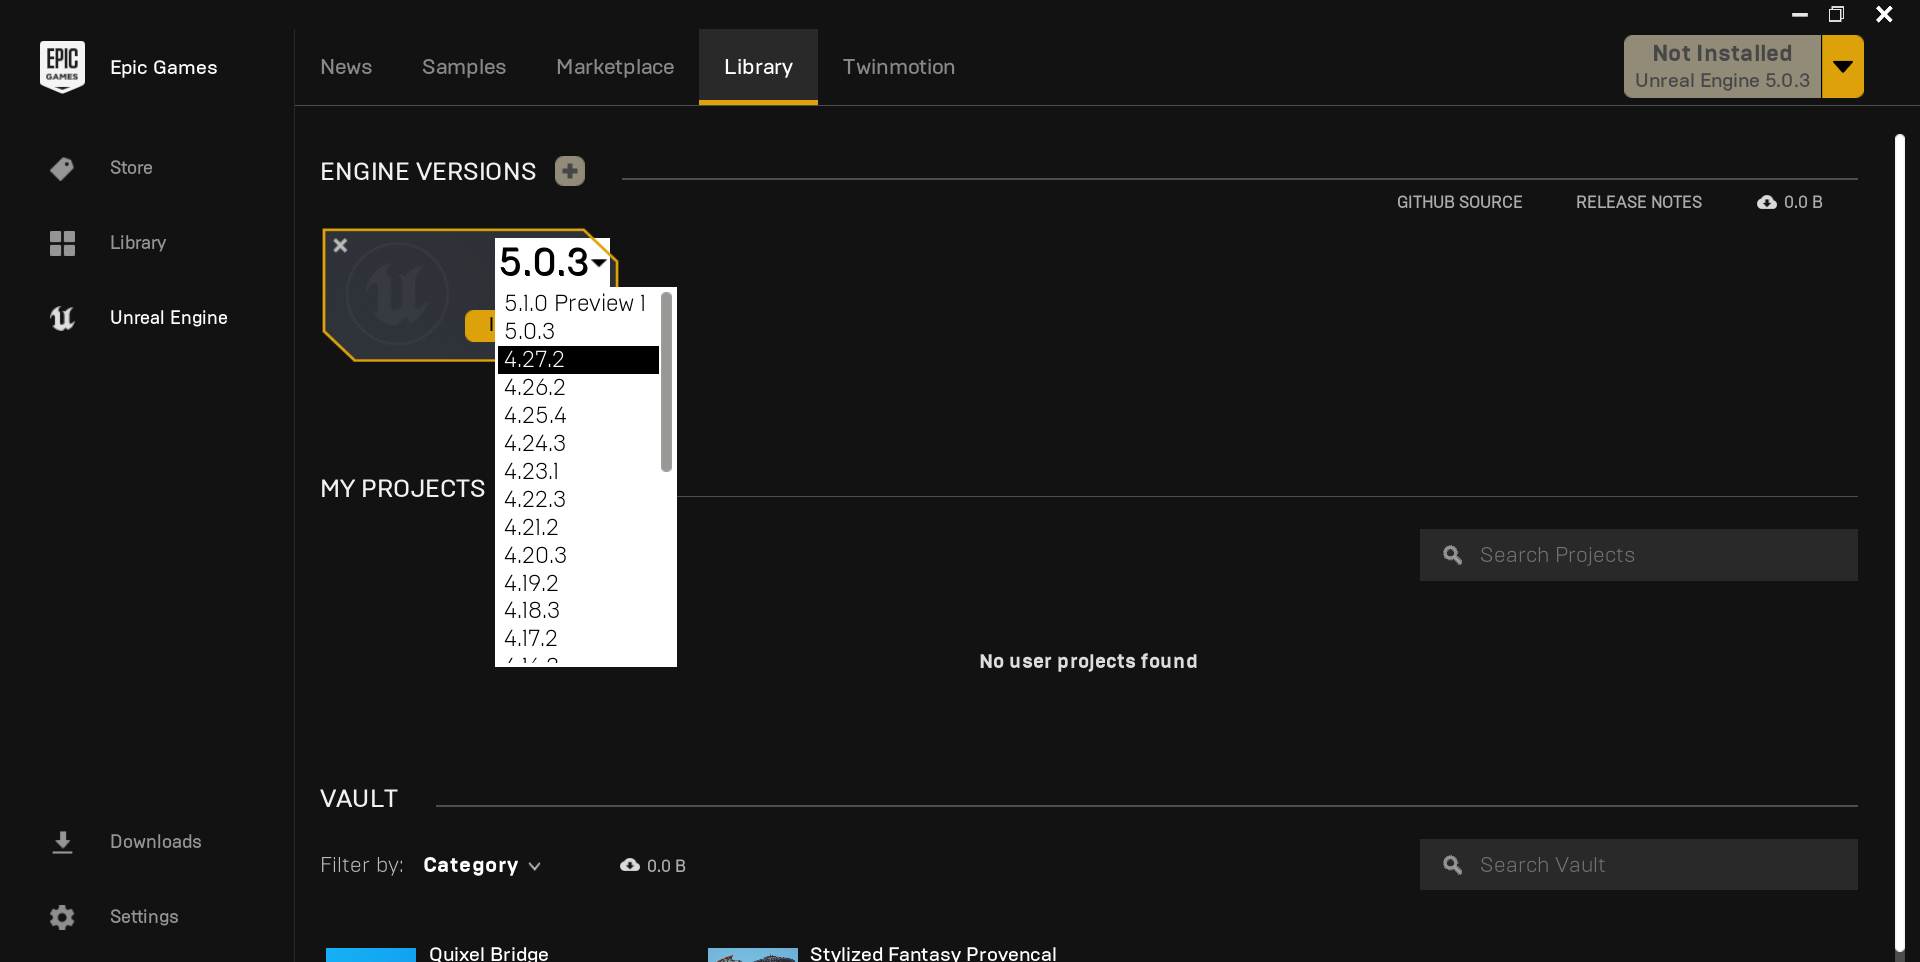
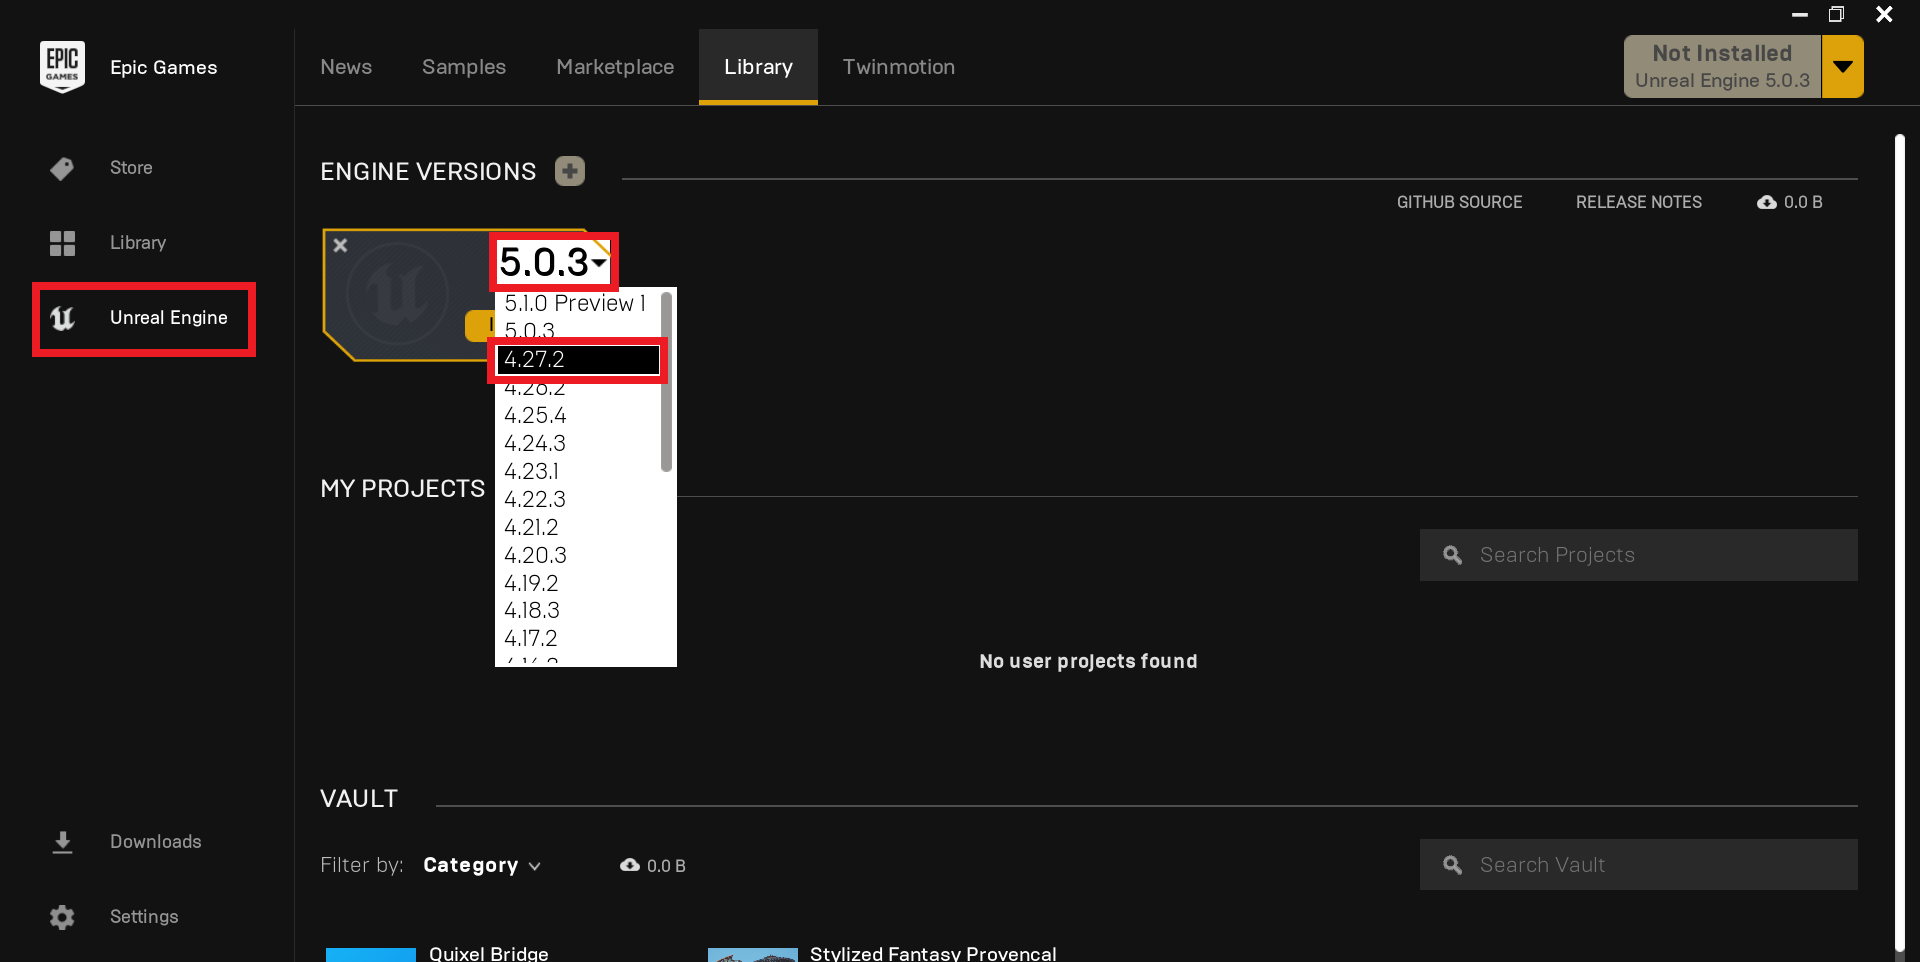
fix: 오타, 그림 수정

Changed region(s): [[0.0, 0.2807, 0.1562, 0.3742], [0.25, 0.343, 0.375, 0.4054], [0.25, 0.2183, 0.3438, 0.3119]]

diff --git a/README.md b/README.md
@@ -2,22 +2,22 @@
 1. 다음 링크로 이동해서 에픽게임즈 런처를 다운 받아 설치한다.
 - https://store.epicgames.com/en-US/
  ![](./images/1.png)
-1. 다운로드 중에 에픽게임즈 회원가입을 한다.
-2. 설치가 되었으면 런처를 실행해서 아까 가입한 정보로 로그인한다.
-3. 왼쪽 목차에 보면 언리얼엔진이라고 적혀져 있다. 클릭하자.
-4. 4.27.2버전을 선택하고 설치를 누른다.
+2. 다운로드 중에 에픽게임즈 회원가입을 한다.
+3. 설치가 되었으면 런처를 실행해서 아까 가입한 정보로 로그인한다.
+4. 왼쪽 목차에 보면 언리얼엔진을 클릭하고 4.27.2버전을 선택, 설치를 누른다.
  ![](./images/5.png)
 5. 우리는 C++로 게임을 만들고 싶어하기 때문에 Visual Studio 2019를 다운받자. 그 이전에 회원가입을 해야한다. 그리고 Visual Studio Dev Essentials를 구독하라고 하는데 공짜이고 구독하자. 그래야 사용할 수 있다.
 - https://visualstudio.microsoft.com/vs/older-downloads/
  ![](./images/7.png)
  ![](./images/8.png)
 6. 다운로드하고 설치하자.
-- ![](./images/9.png)
+ ![](./images/9.png)
 7.  친절하게 어떻게 설정해야 하는지 공식문서에 나와 있다.
 - https://docs.unrealengine.com/4.27/en-US/ProductionPipelines/DevelopmentSetup/VisualStudioSetup/
 8. 자알 따라가서 세팅하자!
 
-vs 영어 설정법
+
+# vs 영어 설정법
 1. Visual Studio Installer를 실행한다.
 2. Visual Studio 2019 수정하기 버튼 클릭
   ![](./images/l1.png)
